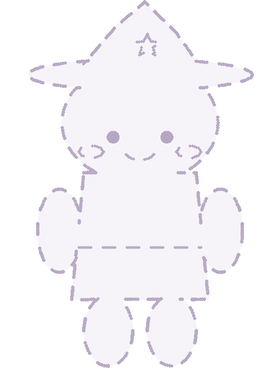
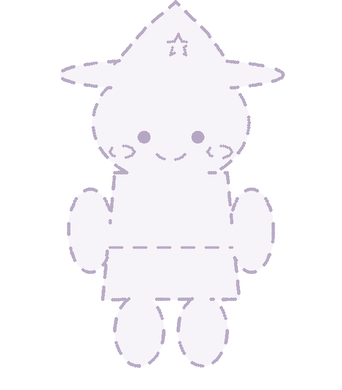
체형·무기별 종이와 밑그림 생성 (paper_<w>x<h>, guide_gear_<역할>_<무기>_<체형>), 틀 카드 아이콘에 무기 종이들

diff --git a/tools/gen_draw.py b/tools/gen_draw.py
@@ -1,10 +1,10 @@
 """유닛 그리기 화면(draw_mode) 이미지 생성 → image/draw/
 
 - panel: 화면을 덮는 커다란 수채화 종이 판
-- paper_person / paper_gear: 사람·무기를 그리는 흰 도화지 두 장
+- paper_<w>x<h>: 사람·무기를 그리는 흰 도화지 (체형·무기마다 크기가 달라 쓰이는 크기 전부)
 - body_<체형> / _on: 체형 고르기 칸 (작은·보통·큰)
 - card / card_on / card_empty: 프리셋(내가 그린 유닛) 카드
-- guide_person_<역할>_<체형> / guide_gear_<역할>: 두 종이에 깔리는 틀 밑그림 (frames.py) — 삐뚤빼뚤한 연필 점선
+- guide_person_<역할>_<체형> / guide_gear_<역할>_<무기 번호>_<체형>: 종이마다 깔리는 틀 밑그림 (frames.py) — 삐뚤빼뚤한 연필 점선
 - frame_<id> / frame_<id>_on: 틀 고르기 카드 (밑그림 + 이름)
 - ink_wave: 고른 잉크 아래 펜으로 쓱 그은 검정 밑줄, eraser: 지우개
 - tab_<all|틀 id> / _on: 내 유닛 화면의 프리셋 나누기 칸 (전체·탱커·근접 딜러·원거리 딜러·서포터)
@@ -63,10 +63,10 @@ def panel():
                 fill_alpha=236, line=4.0, r=30)
 
 
-def paper(pw):
-    """흰 도화지 한 장 (가운데 pw x PAPER_H 가 실제로 칠하는 곳)."""
-    w, h = pw + PAPER_MARGIN * 2, frames.PAPER_H + PAPER_MARGIN * 2
-    sh = Sheet(w, h, seed=910 + pw)
+def paper(pw, ph):
+    """흰 도화지 한 장 (가운데 pw x ph 가 실제로 칠하는 곳)."""
+    w, h = pw + PAPER_MARGIN * 2, ph + PAPER_MARGIN * 2
+    sh = Sheet(w, h, seed=910 + pw + ph)
     sh.line = PLUM
     # 살짝 기운 그림자 → 흰 도화지
     shadow = pastel.wobbly_box(10, 14, w - 4, h - 2, 10, sh.rng, amp=1.0)
@@ -125,9 +125,9 @@ def _dashes(points, keep=None):
     return [d for d in out if len(d) > 1]
 
 
-def guide(parts, details, w, seed, alpha=170, width=3.0, fill_alpha=22, color=GUIDE_LINE):
+def guide(parts, details, size, seed, alpha=170, width=3.0, fill_alpha=22, color=GUIDE_LINE):
     """틀 밑그림: 부위들을 합친 바깥 윤곽 + 무늬를 연필 점선으로, 안은 아주 옅게."""
-    h = frames.PAPER_H
+    w, h = size
     sh = Sheet(w, h, seed=seed)
     sh.line = color
     masks = []
@@ -160,14 +160,25 @@ def guide(parts, details, w, seed, alpha=170, width=3.0, fill_alpha=22, color=GU
 
 def person_guide(fid, body, **kw):
     f = frames.get(fid, body)
-    return guide(f['parts'], f['details'], frames.PERSON_W, 1100 + frames.IDS.index(fid) * 3 +
+    return guide(f['parts'], f['details'], f['size'], 1100 + frames.IDS.index(fid) * 3 + frames.BODIES.index(body),
+                 **kw)
+
+
+def gear_guide(fid, i, body, **kw):
+    g = frames.get(fid, body)['gear'][i]
+    return guide(g['parts'], g['details'], g['size'], 1150 + frames.IDS.index(fid) * 9 + i * 3 +
                  frames.BODIES.index(body), **kw)
 
 
-def gear_guide(fid, **kw):
-    gear = frames.get(fid)['gear']
-    return guide([p for g in gear for p in g['parts']], [d for g in gear for d in g['details']], frames.GEAR_W,
-                 1150 + frames.IDS.index(fid), **kw)
+def paper_sizes():
+    """쓰이는 종이 크기 전부 (사람·무기, 체형마다)."""
+    sizes = set()
+    for fid in frames.IDS:
+        for body in frames.BODIES:
+            f = frames.get(fid, body)
+            sizes.add(f['size'])
+            sizes.update(g['size'] for g in f['gear'])
+    return sorted(sizes)
 
 
 def frame_card(frame, on):
@@ -178,11 +189,14 @@ def frame_card(frame, on):
     # 왼쪽에 작은 틀 실루엣
     # 아이콘: 사람 밑그림 옆에 무기 밑그림 (종이 두 장을 붙인 모양)
     kw = dict(alpha=255, width=6.0, fill_alpha=80 if on else 50, color=PLUM)
-    pg, gg = person_guide(frame['id'], 'medium', **kw), gear_guide(frame['id'], **kw)
-    pg, gg = pg.crop(pg.getbbox()), gg.crop(gg.getbbox())
-    g = Image.new('RGBA', (pg.width + 14 + gg.width, max(pg.height, gg.height)), (0, 0, 0, 0))
-    g.alpha_composite(pg, (0, g.height - pg.height))
-    g.alpha_composite(gg, (pg.width + 14, (g.height - gg.height) // 2))
+    sheets = [person_guide(frame['id'], 'medium', **kw)] +         [gear_guide(frame['id'], i, 'medium', **kw) for i in range(len(frames.get(frame['id'])['gear']))]
+    sheets = [im.crop(im.getbbox()) for im in sheets]
+    g = Image.new('RGBA', (sum(im.width for im in sheets) + 14 * (len(sheets) - 1), max(im.height for im in sheets)),
+                  (0, 0, 0, 0))
+    x = 0
+    for im in sheets:
+        g.alpha_composite(im, (x, (g.height - im.height) // 2 if x else g.height - im.height))
+        x += im.width + 14
     k = min(62 / g.width, 64 / g.height)   # 아이콘 칸 62px, 나머지는 이름 칸
     icon = g.resize((round(g.width * k), round(g.height * k)), Image.LANCZOS)
     img.alpha_composite(icon, (16 + (62 - icon.width) // 2, (h - icon.height) // 2))
@@ -300,14 +314,15 @@ BUTTONS = (  # 파일 이름, 글씨, 색, 크기
 
 def main():
     save(panel(), 'panel.png')
-    save(paper(frames.PERSON_W), 'paper_person.png')
-    save(paper(frames.GEAR_W), 'paper_gear.png')
+    for w, h in paper_sizes():
+        save(paper(w, h), f'paper_{w}x{h}.png')
     for state in ('off', 'on', 'empty'):
         save(card(state), {'off': 'card.png', 'on': 'card_on.png', 'empty': 'card_empty.png'}[state])
     for f in frames.FRAMES:
         for body in frames.BODIES:
             save(person_guide(f['id'], body), f'guide_person_{f["id"]}_{body}.png')
-        save(gear_guide(f['id']), f'guide_gear_{f["id"]}.png')
+            for i in range(len(frames.get(f['id'], body)['gear'])):
+                save(gear_guide(f['id'], i, body), f'guide_gear_{f["id"]}_{i}_{body}.png')
         for on in (False, True):
             save(frame_card(f, on), f'frame_{f["id"]}{"_on" if on else ""}.png')
     for i, (tid, label, tint) in enumerate(TABS):
